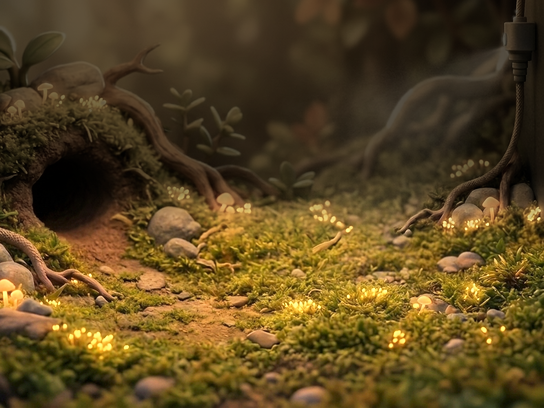
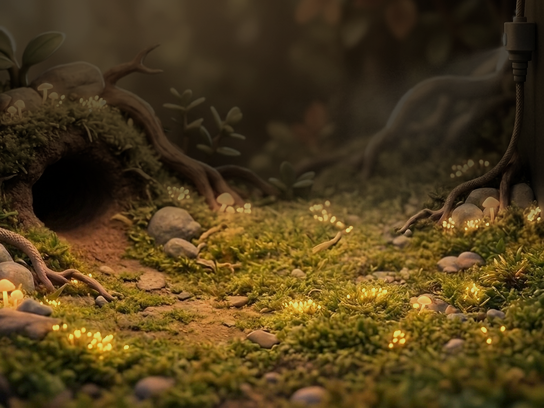
Pods masters: near night graded to pair with the night set

diff --git a/art/station-masters/pods/tools/status.py b/art/station-masters/pods/tools/status.py
@@ -22,7 +22,6 @@ AD_RECORDS = {
  "home-glass-day-640x488": ('signed', 'art director, light verdict (eb64c0d6)', 'signed (art director) at 1x: L* 38.9, key R-B 75, sat 50 against Idle day 43.1/72/48'),
  "home-glass-dusk-640x488": ('signed', 'art director, light verdict (eb64c0d6)', 'signed (art director) at 1x: L* 33.7, key R-B 108, sat 62 against near dusk 36.9/102/62 and Idle dusk 40.1/74/56'),
  "vivarium-near-dawn-544x408": ('signed', 'art director, light verdict (eb64c0d6)', 'signed (art director) at 1x: L* 40.5, key R-B 36, sat 36 against the dawn rule (key R-B >= 35, L* 38-42); day 52.4/59/57'),
- "vivarium-near-night-544x408": ('signed', 'art director, light verdict (eb64c0d6)', 'signed (art director) at 1x: L* 30.5, key R-B 44, sat 62, R above B, 2.8 percent of pixels above L* 70; background rows L* 14-22; ground band 45-52 accepted for the near view, whose ground fills more of the frame'),
  "idle-vivarium-day-1024x568": ('signed', 'art director, Idle verdict (62bbd883)', "Idle's Vivarium by light, seams softened in pass 96; signed at 1x: L* 43.1, key R-B 72, sat 48 (the day reference)"),
  "idle-vivarium-dusk-1024x568": ('signed', 'art director, Idle verdict (62bbd883)', "Idle's Vivarium by light, seams softened in pass 96; signed at 1x: L* 40.1, key R-B 74, sat 56 (the dusk reference)"),
  "idle-vivarium-dawn-1024x568": ('signed', 'art director, verdict (d09acb12)', 'signed (art director) at 1x: L* 40.5, key R-B 37, sat 33 against the dawn rule (key R-B >= 35, L* 38-42); day 43.1/72/48'),
@@ -57,6 +56,7 @@ AD_RECORDS = {
  "bud-small-64x80": ('new', None, "returned (art director): the oval is right (111x138, no waist); two hand fixes: the right edge is ragged from the row remap (a jagged dark rim at 1x): redraw the outline as a clean ellipse with a 1 px soft edge in rust; and the light is the painting's peach-orange (sat 61): add the brief's cream light, a soft cream #fff4a6 highlight from the top left over about a third of the bean, so it reads peach lit cream with a rust edge; then re-cut late, ready, ready-front, the cracks and bud-small"),
  "room-bench-stage-create": ('signed', 'art director, verdict (528b73d5)', "signed (art director) at 1x: L* 35.5, key R-B 37, sat 25 against the Pods overview 36.8/35/22; the signed Incubator stage's frame with its hardware painted out, plain in every keep-clear zone"),
  "idle-vivarium-night-1024x568": ('signed', 'art director, verdict (528b73d5)', 'signed (art director) at 1x: L* 25.0, key R-B 45, sat 58, 0.0 percent above L* 70, R above B, against the revised night rule; the grow-lamp hood painted out, its light kept; placed as the night set with Idle night, glass night and night bed (the pair rule)'),
+ "vivarium-near-night-544x408": ('signed', 'art director, verdict (night pair grade)', 'signed (art director) at 1x: L* 26.0, key R-B 38, sat 64, 0.9 percent above L* 70, R above B; graded down by hand from 30.5 by one linear-light gain of 0.73 so the near view pairs with Idle night 25.0/45/58 and glass night 25.6/46/51 (the pair rule)'),
 }
 
 def sign(n, status, sig, note=""): S[n] = {"status": status, "signed_in": sig, "note": note}

diff --git a/art/station-masters/pods/README.md b/art/station-masters/pods/README.md
@@ -395,7 +395,7 @@ Each slice is named by the register id it replaces (`room`, `ring`, `page`, `tra
 | `vivarium-near-dawn-544x408` | 544×408 | (24, 56, 544, 408) | signed (art director, light verdict (eb64c0d6)): signed (art director) at 1x: L* 40.5, key R-B 36, sat 36 against the dawn rule (key R-B >= 35, L* 38-42); day 52.4/59/57 | the near Vivarium by dawn (the owner's decision of Oct 10): a Pro edit of the signed near day picture in Idle's dawn light (pale, clean, cool-gold, a soft mist and dew, nothing glowing), the same place, cut to 4:3 and reduced to 544x408, given a gold tint by hand and set to a mean L* of 40.5 (tools/dawntint.py; passes 105 and 108) |
 | `vivarium-near-day-544x408` | 544×408 | (24, 56, 544, 408) | signed (art director, near Vivarium verdict (57490118)): signed (art director): the Vivarium up close, the same place as Idle at ground level | the near Vivarium by day ('one mibi up close', the glass at screen (24, 56)): the same place as the signed Idle painting seen closer at ground level, a clear moss and soil band across the bottom 160 rows for one mibi, the burrow's edge, stones and roots behind, the feed line and the mist at the right edge, no creature; a Pro painting, cut to 4:3 and reduced to 544x408 with Lanczos (pass 101) |
 | `vivarium-near-dusk-544x408` | 544×408 | (24, 56, 544, 408) | signed (art director, near Vivarium verdict (57490118)): signed (art director): the Vivarium up close, the same place as Idle at ground level | the near Vivarium by dusk ('one mibi up close', the glass at screen (24, 56)): the same place as the signed Idle painting seen closer at ground level, a clear moss and soil band across the bottom 160 rows for one mibi, the burrow's edge, stones and roots behind, the feed line and the mist at the right edge, no creature; a Pro painting (an edit of the near day picture, matched to Idle's dusk light), cut to 4:3 and reduced to 544x408 with Lanczos (pass 101) |
-| `vivarium-near-night-544x408` | 544×408 | (24, 56, 544, 408) | signed (art director, light verdict (eb64c0d6)): signed (art director) at 1x: L* 30.5, key R-B 44, sat 62, R above B, 2.8 percent of pixels above L* 70; background rows L* 14-22; ground band 45-52 accepted for the near view, whose ground fills more of the frame | the near Vivarium by night ('one mibi up close', the glass at screen (24, 56)): the same place as the signed Idle painting seen closer at ground level, a clear moss and soil band across the bottom 160 rows for one mibi, the burrow's edge, stones and roots behind, the feed line and the mist at the right edge, no creature; a Pro painting (an edit of the near day picture, matched to Idle's night light), cut to 4:3 and reduced to 544x408 with Lanczos (pass 101) |
+| `vivarium-near-night-544x408` | 544×408 | (24, 56, 544, 408) | signed (art director, verdict (night pair grade)): signed (art director) at 1x: L* 26.0, key R-B 38, sat 64, 0.9 percent above L* 70, R above B; graded down by hand from 30.5 by one linear-light gain of 0.73 so the near view pairs with Idle night 25.0/45/58 and glass night 25.6/46/51 (the pair rule) | the near Vivarium by night ('one mibi up close', the glass at screen (24, 56)): the same place as the signed Idle painting seen closer at ground level, a clear moss and soil band across the bottom 160 rows for one mibi, the burrow's edge, stones and roots behind, the feed line and the mist at the right edge, no creature; a Pro painting (an edit of the near day picture, matched to Idle's night light), cut to 4:3 and reduced to 544x408 with Lanczos (pass 101) |
 | `wish-mark-12` | 12×12 |  | new: pass 81: redrawn after the art director's verdict on pass 75; awaiting verdict | the pinned look's glint: a 10x10 silhouette (yellow, cream core, `gold` shade lower right) inside a 1 px `bark` keyline, so 12x12; on a trait cell and its plate (pass 81, after the art director's verdict on pass 75) |
 | `wish-mark-24` | 24×24 |  | new: pass 81: redrawn after the art director's verdict on pass 75; awaiting verdict | the pinned wish panel's corner on the face spread: the same glint drawn again at 22x22 inside a 1 px `bark` keyline, so 24x24, the horizontal arm 2 px thick to its tips; never scaled (pass 81, after the art director's verdict on pass 75) |
 
